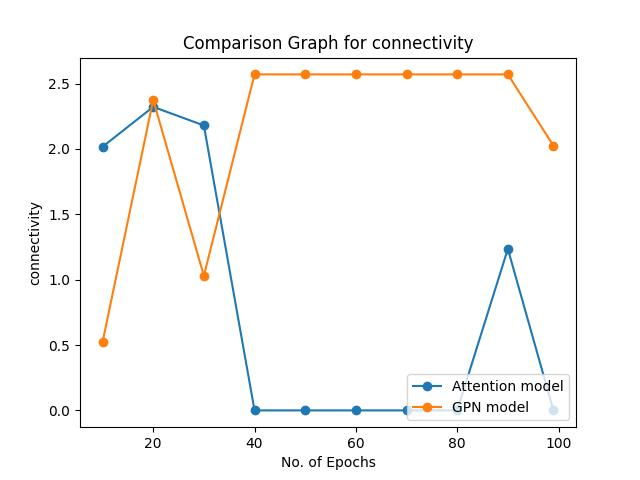
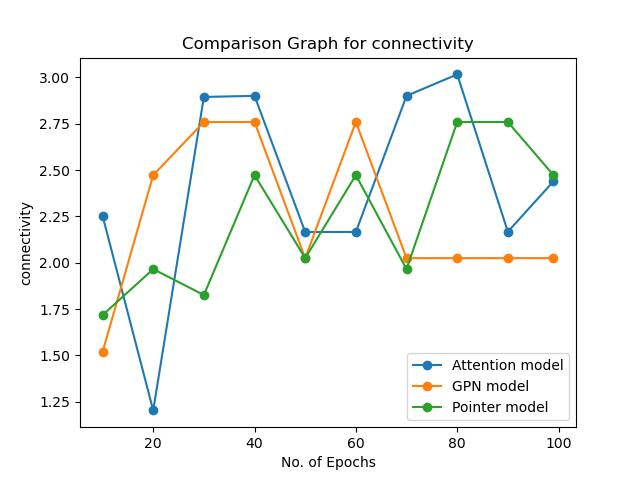
Add low obstacles comparison graphs

diff --git a/analysis.py b/analysis.py
@@ -33,7 +33,7 @@ def arguments(args=None):
                         "means that the start and end depot are the same. num_depots=2 means that they are different")
     parser.add_argument('--return2depot', type=str2bool, default=True, help="True for constraint of returning to depot")
     parser.add_argument('--max_length', type=float, default=2, help="Normalized time limit to solve the problem")
-    parser.add_argument('--obstacle_percentage', default='medium', help="Percentage of obstacle nodes in the region. Options are low, medium or high)")
+    parser.add_argument('--obstacle_percentage', default='low', help="Percentage of obstacle nodes in the region. Options are low, medium or high)")
 
 
     # CPU / GPU
@@ -98,20 +98,20 @@ def parameter_graph(x_values,y_values,parameter,model_name,obstacle_percentage):
   plt.savefig("images/{}/{}/{}.jpg".format(model_name,obstacle_percentage,parameter))
   plt.show()
 
-def combined_parameter_graph(x_values,y_values,parameters,model_name,obstacle_percentage):
+# def combined_parameter_graph(x_values,y_values,parameters,model_name,obstacle_percentage):
   
-  for i in range (7):
-    plt.plot(x_values, y_values[i], marker='o', label=parameters[i]) 
+#   for i in range (7):
+#     plt.plot(x_values, y_values[i], marker='o', label=parameters[i]) 
     
-  # Naming the x-axis, y-axis and the whole graph 
-  plt.xlabel("No. of Epochs") 
-  plt.ylabel("Parameter value") 
-  plt.title("Parameter Graph Analysis") 
+#   # Naming the x-axis, y-axis and the whole graph 
+#   plt.xlabel("No. of Epochs") 
+#   plt.ylabel("Parameter value") 
+#   plt.title("Parameter Graph Analysis") 
     
-  plt.legend(loc="lower right") 
+#   plt.legend(loc="lower right") 
   
-  plt.savefig("images/{}/{}/combined.jpg".format(model_name,obstacle_percentage))
-  plt.show() 
+#   plt.savefig("images/pointer/low/combined.jpg".format(model_name,obstacle_percentage))
+#   plt.show() 
 
 def main(opts):
     print(opts.model.split("/")[-1].split("_")[0])
@@ -176,7 +176,6 @@ def main(opts):
         json.dump(all_parameters_value_array, file)
 
       parameter_graph(specific_epochs, parameter_vals_array,parameter,model_name,opts.obstacle_percentage)
-    combined_parameter_graph(specific_epochs,all_parameters_value_array,parameters,model_name)
 
 if __name__ == "__main__":
     main(arguments())

diff --git a/comparison_graph.py b/comparison_graph.py
@@ -1,14 +1,16 @@
 from matplotlib import pyplot as plt
 import json
 
-def combined_graph(attention_data,gpn_data):
+def combined_graph(attention_data,gpn_data,pointer_data):
   
   parameters = ['energy','delay','network_lifetime','pdr','throughput','connectivity','routing_overhead', 'prize']
   specific_epochs = [10, 20, 30, 40, 50, 60, 70, 80, 90, 99]
 
-  for i in range (7):
+  for i in range (0,len(parameters)):
     plt.plot(specific_epochs, attention_data[i], marker='o', label="Attention model") 
-    plt.plot(specific_epochs, gpn_data[i],marker='o', label="GPN model") 
+    plt.plot(specific_epochs, gpn_data[i],marker='o', label="GPN model")
+    plt.plot(specific_epochs, pointer_data[i], marker='o', label="Pointer model") 
+
     
     plt.xlabel("No. of Epochs") 
     plt.ylabel("{}".format(parameters[i])) 
@@ -29,7 +31,10 @@ def main():
     with open("graph_data/gpn.json", "r") as file:
         gpn_data = json.load(file)
 
-    combined_graph(attention_data, gpn_data)
+    with open("graph_data/pointer.json", "r") as file:
+        pointer_data = json.load(file)
+
+    combined_graph(attention_data, gpn_data,pointer_data)
 
 if __name__ == "__main__":
     main()

diff --git a/visualize3d.py b/visualize3d.py
@@ -201,7 +201,7 @@ def plot_tour(tours, inputs, problem, model_name, data_dist=''):
         # Add TOP prize to the title (if problem is TOP)
         title += ' / {:.3g} | Reward = {:.3g} / {:.3g}'.format(inputs['max_length'], reward, np.sum(prizes[prizes>0]))
     ax.set_title(title)
-    fig.savefig('images/{}/low_obstacle/solution.png'.format(model_name), dpi=150)
+    fig.savefig('images/{}/low/solution.png'.format(model_name), dpi=150)
     # ax.legend(loc='center right', bbox_to_anchor=(1.5, 0.5))
     ax.legend()
     plt.show()

diff --git a/problems/top/problem_top.py b/problems/top/problem_top.py
@@ -94,7 +94,7 @@ def generate_instance(size, prize_type, max_length=2, num_depots=1):
     depot = torch.FloatTensor(3).uniform_(0, 1)
 
     # Initialize obstacle indices
-    num_obstacles = int(0.4 * size)
+    num_obstacles = int(0.2 * size)
     obstacle_indices = np.random.choice(size, size=num_obstacles, replace=False)
 
     energy = normalize(torch.FloatTensor(size).uniform_(1000, 5000)) #minimize #Joules

diff --git a/README.md b/README.md
@@ -79,6 +79,8 @@ Finally, you can visualize an example using:
 ```bash
 python33 visualize3d.py --graph_size 20 --num_agents 2 --max_length 2 --data_distribution const --model outputs/top_const20/attention_rollout_2agents_20240312T101240
 python3 visualize.py --graph_size 20 --num_agents 2 --max_length 2 --data_distribution const --model aco
+
+python3 analysis.py --graph_size 20 --num_agents 2 --max_length 2 --data_distribution const --model outputs/top_const20/attention_rollout_2agents_20240318T234600
 ```
 
 ### Other options and help
